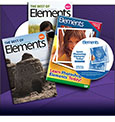
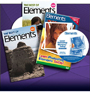
View tweaks, route tweaks

diff --git a/public/css/base.css b/public/css/base.css
@@ -160,8 +160,8 @@ label input {
 }
 
 .subscriptions-small, .digital-small, .dvds-small, .gifts-small {
-    width: 115px;
-    height: 122px;
+    width: 90px;
+    height: 96px;
 }
 
 .subscriptions-small {

diff --git a/application/modules/default/controllers/ProductsController.php b/application/modules/default/controllers/ProductsController.php
@@ -139,7 +139,7 @@ class ProductsController extends Zend_Controller_Action {
      * Gift subscriptions
      * 
      */
-    public function giftSubscriptionsAction() {
+    public function giftsAction() {
         $this->view->inlineScriptMin()->loadGroup('products')
             ->appendScript('new Pet.ProductsView;');
     }
